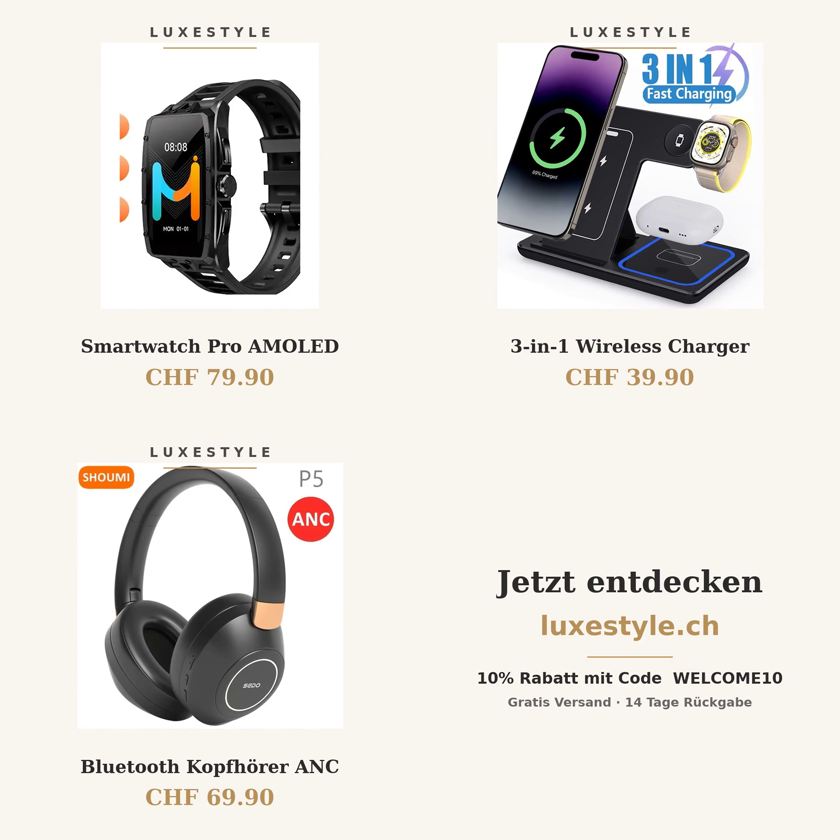
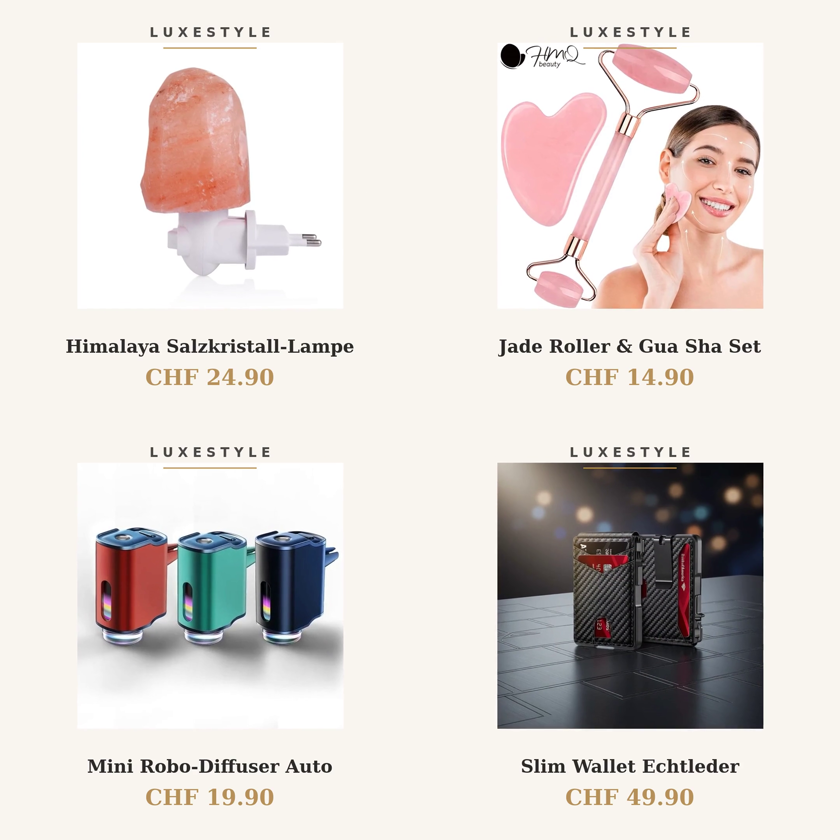
Rebuild Bestseller-Montage on live Top-10 set + add TikTok hook version
- Montage now uses the live '⭐ Top 10 Bestseller' collection (salt lamp, flame
  diffuser, jade roller, aurora projector …) → consistent with the website tour
- New 8.5s fast-cut hook variant (9:16 + 1:1) for TikTok/Reels openers
- Updated render.sh product set, added hook.sh, refreshed posters + ADS.md

https://claude.ai/code/session_019ZoCDh2vcd3F1DsQggLvjk

diff --git a/dropship/ADS.md b/dropship/ADS.md
@@ -10,10 +10,12 @@ CTA durchgängig: **10 % Rabatt mit Code `WELCOME10`** (Code ist im Shop aktiv).
 
 | Datei | Format | Länge | Inhalt |
 |-------|--------|-------|--------|
-| `luxestyle_bestseller_9x16.mp4` | 1080×1920 (9:16) | ~20,5 s | Bestseller-Montage, 10 Hero-Produkte |
+| `luxestyle_bestseller_9x16.mp4` | 1080×1920 (9:16) | ~20,5 s | Bestseller-Montage, 10 Live-Top-10-Produkte |
 | `luxestyle_bestseller_1x1.mp4`  | 1080×1080 (1:1)  | ~20,5 s | dito, für Feed |
 | `luxestyle_tour_9x16.mp4`       | 1080×1920 (9:16) | ~15,4 s | Live-Website-Tour (Auto-Scroll) |
 | `luxestyle_tour_1x1.mp4`        | 1080×1080 (1:1)  | ~15,4 s | dito, für Feed |
+| `luxestyle_hook_9x16.mp4`       | 1080×1920 (9:16) | ~8,5 s  | Schnelle TikTok-Hook-Version (10 Flashes) |
+| `luxestyle_hook_1x1.mp4`        | 1080×1080 (1:1)  | ~8,5 s  | dito, für Feed |
 
 Alle: H.264 / yuv420p + AAC-Stereo, `+faststart` (web-optimiert).
 Die fertigen MP4s wurden direkt im Chat geliefert (nicht im Repo, um es schlank zu halten).
@@ -24,22 +26,19 @@ Für Meta (Instagram/Facebook Reels & Feed), TikTok und Stories. **Nicht** auf d
 Live-Seite eingebettet — das Live-Theme ist schreibgesperrt. Für TikTok/Reels ggf.
 zusätzlich den nativen Sound-Layer nutzen; die Clips haben aber bereits eine eigene Tonspur.
 
-## Bestseller-Montage — verwendete Produkte (Quelle: Collection „Home page")
-1. Diver Pro Automatic 200M — CHF 149.90
-2. Klassische Herrenuhr — CHF 129.90
-3. Smartwatch Pro AMOLED — CHF 79.90  *(Produktbild aus Listing freigestellt/zugeschnitten)*
-4. Bluetooth Kopfhörer ANC — CHF 69.90
-5. 3-in-1 Wireless Charger — CHF 39.90
-6. Slim Wallet Echtleder — CHF 49.90
-7. Damen Portemonnaie XL — CHF 54.90
-8. Herren Lederarmband — CHF 29.90
-9. Seiden-Kissenbezug — CHF 39.90
-10. Anti-Aging Serum — CHF 29.90
-
-> **Hinweis Konsistenz:** Die Live-Startseite zeigt im Abschnitt „⭐ Top 10 Bestseller"
-> eine andere Auswahl (Himalaya-Salzlampe, Flame Diffuser …). Die Montage nutzt bewusst
-> die höherpreisigen Premium-Heroes der „Home page"-Collection. Beide Sets sind echte
-> LuxeStyle-Produkte. Bei Bedarf kann die Montage auf das Live-„Top 10"-Set umgestellt werden.
+## Bestseller-Montage & Hook — verwendete Produkte
+Quelle: Live-Collection **„⭐ Top 10 Bestseller"** (`bestseller-premium-heroes`) — identisch
+mit dem, was die Startseite zeigt → Montage, Hook und Website-Tour sind konsistent.
+1. Himalaya Salzkristall-Lampe — CHF 24.90
+2. Flame Diffuser Premium — CHF 49.90
+3. Jade Roller & Gua Sha Set — CHF 14.90
+4. 3-in-1 Wireless Charger — CHF 39.90
+5. Wellness-Tablett Bambus — CHF 44.90
+6. Mini Robo-Diffuser Auto — CHF 19.90
+7. Bambus Aroma Diffuser — CHF 39.90
+8. Galaxy Aurora Projektor — CHF 19.90
+9. Slim Wallet Echtleder — CHF 49.90
+10. Klassische Herrenuhr — CHF 129.90
 
 ## Musik (lizenziert)
 Adobe Stock, Free-Collection, royalty-free nach Lizenzierung über das verbundene Konto:
@@ -60,6 +59,9 @@ NODE_PATH=/opt/node22/lib/node_modules PLAYWRIGHT_BROWSERS_PATH=/opt/pw-browsers
 
 # 3) Tour zusammenbauen (Intro/Outro-Cards + Musik /tmp/ads/music/elegant.wav)
 bash dropship/ads/tour_assemble.sh
+
+# 4) TikTok-Hook (8,5 s) — nutzt die Segment-Clips aus Schritt 1
+bash dropship/ads/hook.sh
 ```
 
 Technik-Notizen:
